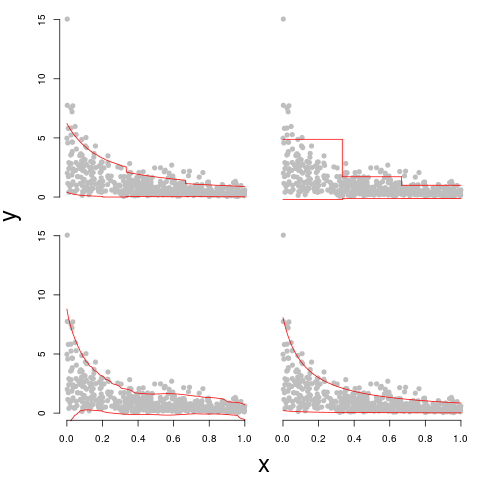
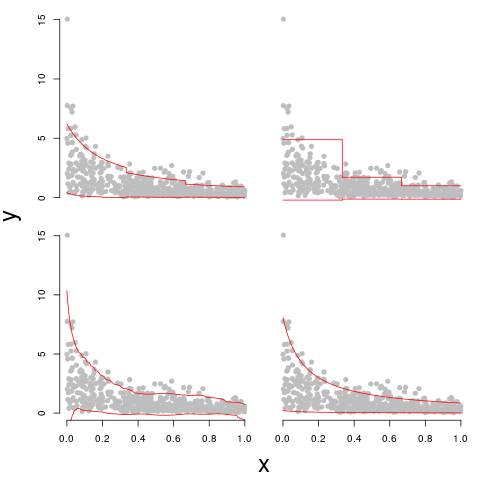
updated README

diff --git a/README.md b/README.md
@@ -37,18 +37,19 @@ set.seed(13)
 x <- matrix(runif(n), ncol = 1)
 rate <- cbind(1, x) %*% beta * shape
 y <- rgamma(n = n, shape = shape, rate = rate)
-data <- data.frame(y = y, x = x)
-colnames(data)[2] <- c("x1")
+data.readme <- data.frame(y = y, x = x)
+colnames(data.readme)[2] <- c("x1")
 
-fit = glm(y ~ x1, family = Gamma, data = data)
+fit.readme = glm(y ~ x1, family = Gamma, data = data.readme)
+summary(fit.readme)
 ```
 
 
 Compute the parametric and nonparametric conformal prediction regions.
 ```r
 bins <- 3
-system.time(cpred <- conformal.glm(fit, nonparametric = TRUE, 
-  bins = bins, cores = 6))
+system.time(cpred <- conformal.glm(fit.readme, 
+  nonparametric = TRUE, bins = bins, cores = 6))
 paraCI <- cpred$paraconformal
 nonparaCI <- cpred$nonparaconformal
 ```
@@ -62,30 +63,37 @@ library(conformalInference)
 funs <- lm.funs(intercept = TRUE)
 train.fun <- funs$train.fun
 predict.fun <- funs$predict.fun
+
+cubic.model <- lm(y ~ x + I(x^2) + I(x^3))
+abs.resid <- abs(cubic.model$resid)
+smooth.call <- smooth.spline(x, abs.resid, 
+  nknots = 10)
+lambda <- smooth.call$lambda
+df <- smooth.call$df
 mad.train.fun <- function(x, y, out = NULL){
-  object <- smooth.spline(x[, 1], y)
-  object
+  smooth.spline(x[, 1], y, lambda = lambda, 
+    df = df, nknots = 10)
 }
 mad.predict.fun <- function(out, newx){
   predict(out, newx[, 1])$y
 }
-system.time(p1.tibs <- conformal.pred(x = cbind(x,x^2,x^3), y = y, 
-  x0 = cbind(x,x^2,x^3), 
+system.time(p1.tibs <- conformal.pred(x = cbind(x,x^2,x^3), 
+  y = y, x0 = cbind(x,x^2,x^3), 
   train.fun = train.fun, predict.fun = predict.fun, 
   mad.train.fun = mad.train.fun,
   mad.predict.fun = mad.predict.fun,
   alpha = alpha))
-cresid = cbind(p1.tibs$lo, p1.tibs$up)
+LSLW = cbind(p1.tibs$lo, p1.tibs$up)
 ```
 
 
 Compute the highest density (HD) prediction region.
 ```r
 library(HDInterval)
-betaMLE <- coefficients(fit)
-shapeMLE <- as.numeric(gamma.shape(fit)[1])
+betaMLE <- coefficients(fit.readme)
+shapeMLE <- as.numeric(gamma.shape(fit.readme)[1])
 rateMLE <- cbind(1, x) %*% betaMLE * shapeMLE
-minlength <- do.call(rbind, 
+HDCI <- do.call(rbind, 
   lapply(1:nrow(x), function(j){ 
     hdi(qgamma, 0.90, shape = shapeMLE, rate = rateMLE[j, 1])
   }))
@@ -114,7 +122,7 @@ par(mfrow = c(2,2), oma = c(4,4,0,0), mar = c(1,1,1,1))
 # parametric conformal prediction region
 ix <- sort(x, index.return = TRUE)$ix
 plot.new()
-plot.window(xlim = c(0,1), ylim = c(0,max(y)))
+plot.window(xlim = c(0,1), ylim = c(min(y), max(y)))
 points(x, y, pch = 19, col = "gray")
 lines(x[ix], paraCI[ix, 1], type = "l", col = "red")
 lines(x[ix], paraCI[ix, 2], type = "l", col = "red")
@@ -126,21 +134,21 @@ plot.nonparametric <- function(region){
     stop("Only appropriate for nonparametric conformal prediction region")
   }
   plot.new()
-  plot.window(xlim = c(0,1), ylim = c(0,max(y)))
+  plot.window(xlim = c(0,1), ylim = c(min(y), max(y)))
   points(x, y, pch = 19, col = "gray")
   for(i in 1:bins){ 
-    foo <- nonparaCI[[i]]
-    odd <- which(1:length(foo) %% 2 == 1) 
-    even <- which(1:length(foo) %% 2 == 0)
-    segments(x0 = 1/bins * (i-1), y0 = foo, x1 =1/bins * i, 
+    nonpar.i  <- nonparaCI[[i]]
+    odd <- which(1:length(nonpar.i) %% 2 == 1) 
+    even <- which(1:length(nonpar.i) %% 2 == 0)
+    segments(x0 = 1/bins * (i-1), y0 = nonpar.i, x1 =1/bins * i, 
       col = "red")
     if(i != 1){ 
-      bar <- nonparaCI[[i-1]]
-      baz <- sort(c(foo,bar))
-      odd2 <- which(1:length(baz) %% 2 == 1) 
-      even2 <- which(1:length(baz) %% 2 == 0)
-      segments(x0 = 1/bins * (i-1), y0 = baz[odd2], 
-        y1 = baz[even2], col = "red")
+      nonpar.i.previous <- nonparaCI[[i-1]]
+      nonpar <- sort(c(nonpar.i, nonpar.i.previous))
+      odd2 <- which(1:length(nonpar) %% 2 == 1) 
+      even2 <- which(1:length(nonpar) %% 2 == 0)
+      segments(x0 = 1/bins * (i-1), y0 = nonpar[odd2], 
+        y1 = nonpar[even2], col = "red")
     }
   }
 }    
@@ -150,16 +158,16 @@ plot.nonparametric(nonparaCI)
 plot.new()
 plot.window(xlim = c(0,1), ylim = c(0,max(y)))
 points(x, y, pch = 19, col = "gray")
-lines(x[ix], cresid[ix, 1], type = "l", col = "red")
-lines(x[ix], cresid[ix, 2], type = "l", col = "red")
+lines(x[ix], LSLW[ix, 1], type = "l", col = "red")
+lines(x[ix], LSLW[ix, 2], type = "l", col = "red")
 axis(1); axis(2)
 
 # highest density region
 plot.new()
 plot.window(xlim = c(0,1), ylim = c(0,max(y)))
 points(x, y, pch = 19, col = "gray")
-lines(x[ix], minlength[ix, 1], type = "l", col = "red")
-lines(x[ix], minlength[ix, 2], type = "l", col = "red")
+lines(x[ix], HDCI[ix, 1], type = "l", col = "red")
+lines(x[ix], HDCI[ix, 2], type = "l", col = "red")
 axis(1)
 
 # axis labels
@@ -196,10 +204,10 @@ region.
 mean(apply(paraCI, 1, diff))
 # local coverage
 p <- length(beta) - 1
-local.coverage(region = paraCI, data = data, k = p, 
+local.coverage(region = paraCI, data = data.readme, d = p, 
   bins = bins, at.data = "TRUE")
 # marginal coverage
-local.coverage(region = paraCI, data = data,  k = p, 
+local.coverage(region = paraCI, data = data.readme, d = p, 
   bins = 1, at.data = "TRUE")
 
 ## nonparametric conformal prediction region
@@ -211,37 +219,38 @@ area.nonparametric <- function(region){
   bins <- length(region); wn <- 1 / bins
   area <- 0
   for(i in 1:bins){
-    foo <- region[[i]]
-    area <- area + wn * as.numeric(rep(c(-1,1), length(foo)/2) %*% foo)
+    nonpar.region <- region[[i]]
+    area <- area + wn * as.numeric(rep(c(-1,1), 
+      length(nonpar.region)/2) %*% nonpar.region)
   }
   area
 }
 area.nonparametric(nonparaCI)
 # local coverage
-local.coverage(region = nonparaCI, data = data, k = p, 
+local.coverage(region = nonparaCI, data = data.readme, d = p, 
   nonparametric = "TRUE", bins = bins, at.data = "TRUE")
 # marginal coverage
-local.coverage(region = nonparaCI, data = data, k = p, 
+local.coverage(region = nonparaCI, data = data.readme, d = p, 
   nonparametric = "TRUE", bins = 1, at.data = "TRUE")
 
-## least squares conformal prediction region
+## LSLW conformal prediction region
 # estimated area
-mean(apply(cresid, 1, diff))
+mean(apply(LSLW, 1, diff))
 # local coverage
-local.coverage(region = cresid, data = data, k = p, 
+local.coverage(region = LSLW, data = data.readme, d = p, 
   bins = bins, at.data = "TRUE")
 # marginal coverage
-local.coverage(region = cresid, data = data,  k = p, 
+local.coverage(region = LSLW, data = data.readme, d = p, 
   bins = 1, at.data = "TRUE")
 
-## highest density region
+## HD region
 # estimated area
-mean(apply(minlength, 1, diff))
+mean(apply(HDCI, 1, diff))
 # local coverage
-local.coverage(region = minlength, data = data, k = p, 
+local.coverage(region = HDCI, data = data.readme, d = p, 
   bins = bins, at.data = "TRUE")
 # marginal coverage
-local.coverage(region = minlength, data = data,  k = p, 
+local.coverage(region = HDCI, data = data.readme, d = p, 
   bins = 1, at.data = "TRUE")
 ```
 
